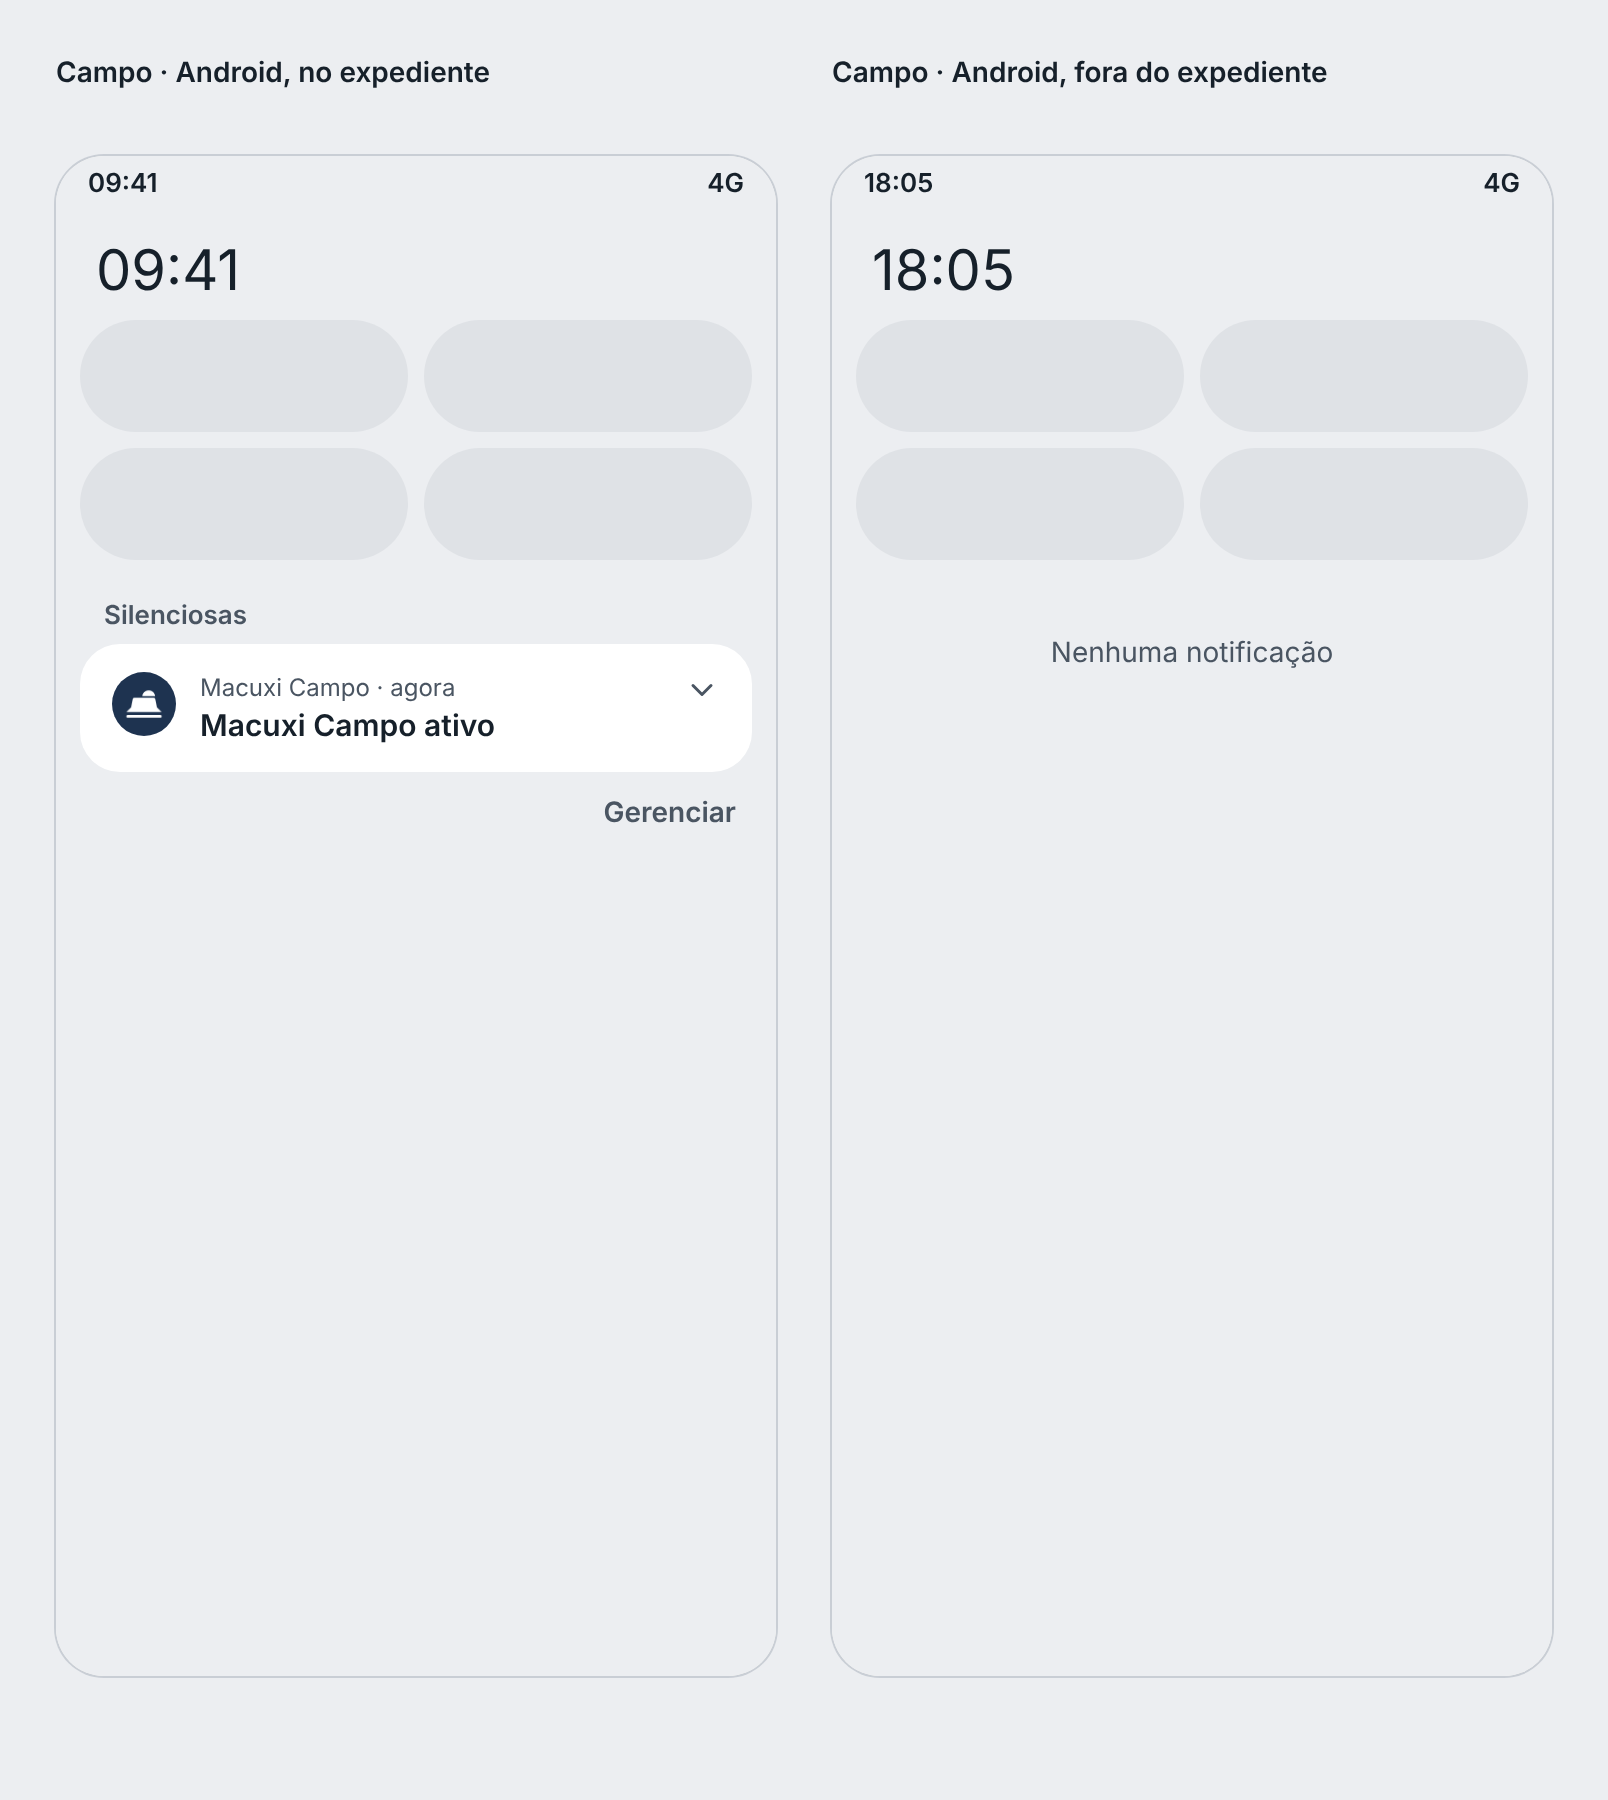
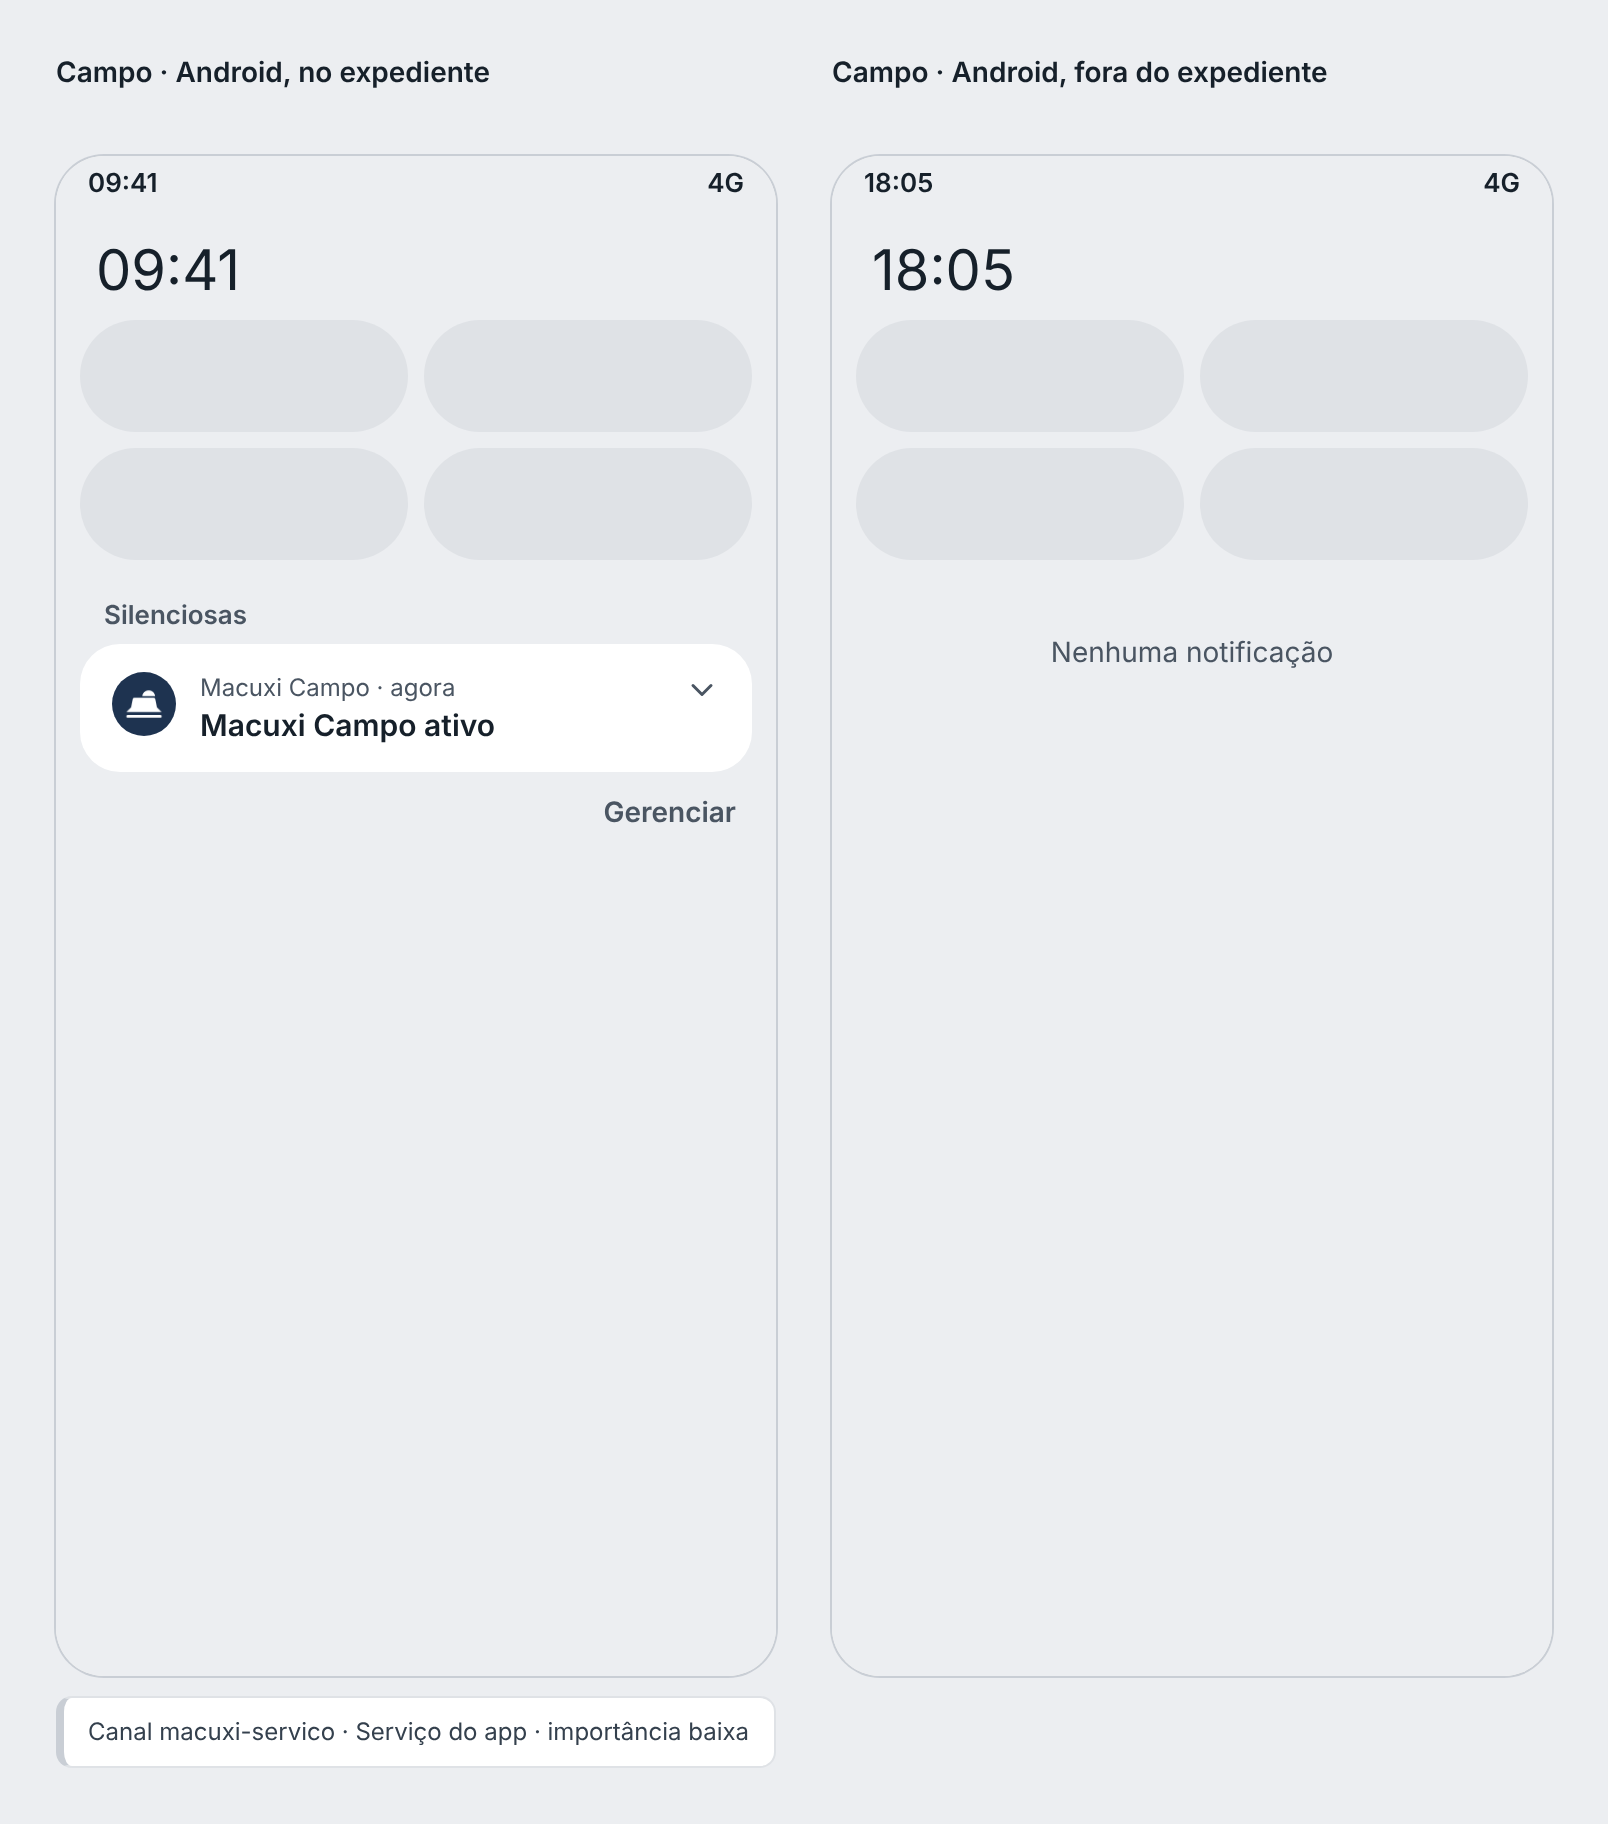
designer-ux — v1.0.15 T-0156: RD-2332 a 2336, canal macuxi-servico e Diagnóstico sem localização
Textos de distância e de dia vazio, decisão de 19/11 num lugar só, quem vê pelo desenho, canal Serviço do app; MC-1781 conferida.

Agente: designer-ux

Claude-Session: https://claude.ai/code/session_019xHEXrPzgn3fNKy4GEjQ9e

diff --git a/docs/design/tracking/02-notificacao.html b/docs/design/tracking/02-notificacao.html
@@ -64,7 +64,7 @@ main{flex:1;min-width:0;padding:24px 32px;display:flex;flex-direction:column;gap
 .vaziow{display:flex;flex-direction:column;align-items:center;gap:12px;padding:40px 24px;text-align:center;border:1px dashed #C9CED5;border-radius:16px}
 .vaziow span{font-size:15px;font-weight:600;color:#4A5562}
 </style><body><div class="fila"><div class="col"><span class="leg">Campo · Android, no expediente</span><div class="tel"><div class="and"><div class="sb"><span>09:41</span><span>4G</span></div>
-<div class="rel">09:41</div><div class="rapidos" aria-hidden="true"><i></i><i></i><i></i><i></i></div><span class="grupo">Silenciosas</span><div class="not" role="listitem"><span class="pi"><img src="../../marca/ativos/2026-11-12-v1/icone-notificacao-96.png" alt=""></span><span class="txt"><span class="ap">Macuxi Campo · agora</span><b>Macuxi Campo ativo</b></span><span class="chev"><svg width="18" height="18" viewBox="0 0 24 24" fill="none" stroke="currentColor" stroke-width="2" stroke-linecap="round" stroke-linejoin="round"><path d="M6 9l6 6 6-6"/></svg></span></div><span class="gerir">Gerenciar</span></div></div></div><div class="col"><span class="leg">Campo · Android, fora do expediente</span><div class="tel"><div class="and"><div class="sb"><span>18:05</span><span>4G</span></div>
+<div class="rel">09:41</div><div class="rapidos" aria-hidden="true"><i></i><i></i><i></i><i></i></div><span class="grupo">Silenciosas</span><div class="not" role="listitem"><span class="pi"><img src="../../marca/ativos/2026-11-12-v1/icone-notificacao-96.png" alt=""></span><span class="txt"><span class="ap">Macuxi Campo · agora</span><b>Macuxi Campo ativo</b></span><span class="chev"><svg width="18" height="18" viewBox="0 0 24 24" fill="none" stroke="currentColor" stroke-width="2" stroke-linecap="round" stroke-linejoin="round"><path d="M6 9l6 6 6-6"/></svg></span></div><span class="gerir">Gerenciar</span></div></div><div class="nota">Canal macuxi-servico · Serviço do app · importância baixa</div></div><div class="col"><span class="leg">Campo · Android, fora do expediente</span><div class="tel"><div class="and"><div class="sb"><span>18:05</span><span>4G</span></div>
 <div class="rel">18:05</div><div class="rapidos" aria-hidden="true"><i></i><i></i><i></i><i></i></div><div class="nada">Nenhuma notificação</div></div></div></div></div><script>window.addEventListener('load',()=>{const conflitos=[];
 for(const col of document.querySelectorAll('.col')){const tel=col.querySelector('.tel,.web').getBoundingClientRect();
 const sobre=[...col.querySelectorAll('.leg,.nota')].map(e=>[e.className,e.getBoundingClientRect()]);

diff --git a/docs/design/tracking/spec.md b/docs/design/tracking/spec.md
@@ -3,7 +3,6 @@
 - **Autor**: designer-ux, 19/11/2026 (Manaus). Item 5 do §11 de [`docs/desenho/tracking.md`](../../desenho/tracking.md); ADR 0061.
 - **Escopo**: o que ficou na v1.0.15 — o trajeto do dia na Ficha do Gestão e no BKO (PR #502, modulo-gestor) e a notificação fixa
   do Android no Campo (PR #501, engenheiro-apps). Esta spec descreve o código desses PRs.
-- **Decisão do dono do produto (19/11/2026, 05h46)**: o rastreamento é **interno**; o vendedor e o promotor não têm tela dele.
 - **Simulação**: `node docs/design/tracking/gerar.mjs` gera `01-mapa-equipe` e `02-notificacao` (HTML e PNG, escala 2; aparelho
   360×760 e BKO 1366×768). O gerador falha se a legenda cobrir a tela ou se algo sair dela ou ficar cortado.
 - **Marca**: cores do kit (`packages/ui/src/comum/contraste.ts`); traço e marcadores em Azul noite #1E3350, fundo do mapa Névoa
@@ -14,10 +13,10 @@
 
 | Quem | O que vê |
 |---|---|
-| Quem tem `core.trajeto.ver_equipe` (supervisor, gerente e admin), só na própria equipe | o trajeto do dia na Ficha (§2) e a página Trajeto do dia (§3) |
-| Suporte | no Diagnóstico do Perfil do Campo, a linha `Localização no expediente: <estado> · último ponto 10:12` |
+| Quem tem `core.trajeto.ver_equipe` (padrão: supervisor e gerente; o admin só com a permissão — [`docs/desenho/tracking.md`](../../desenho/tracking.md) §6 e §7), só na própria equipe | o trajeto do dia na Ficha (§2) e a página Trajeto do dia (§3) |
 | Vendedor e promotor | só a notificação fixa do Android (§4) |
 
+- **Decisão do dono do produto (19/11/2026, 05h46)**: o rastreamento é **interno**; o vendedor e o promotor não têm tela dele.
 - Sem a permissão, a seção da Ficha some e a página não entra no menu; a API recusa (403).
 - Nenhuma tela exporta pontos nem mostra coordenada.
 
@@ -72,13 +71,13 @@ Valores de `apps/mobile/src/lib/trajeto.ts` e `apps/mobile/plugins/notificacao-t
 | Texto | nenhum |
 | Ícone pequeno | `notification_icon` (o `icone-notificacao.png` do plugin do expo-notifications) |
 | Cor | círculo do ícone em `notification_icon_color`, Azul noite #1E3350; cartão sem pintar |
-| Canal | id `<appId>:macuxi-trajeto`, nome `Serviço do app`, sem descrição, importância baixa (`IMPORTANCE_LOW`): sem som, em "Silenciosas" |
+| Canal | id `<appId>:macuxi-servico`, nome `Serviço do app`, sem descrição, importância baixa (`IMPORTANCE_LOW`): sem som, em "Silenciosas" |
 | Categoria e ações | `CATEGORY_SERVICE`; sem ações |
 | Toque | abre o Campo onde ele estava |
 | Quando | aparece com o serviço ligado e some quando ele desliga (fora do expediente, feriado, ausência, logout, rastreamento desligado) |
 
 ## 5. Fora da v1.0.15
 
-- Tela própria de trajeto no Gestão, troca de dia no app, visitas e trechos sem registro no desenho, mapa com ruas.
-- Km e "Ver trajeto" no Painel da equipe.
-- Qualquer tela de rastreamento para o vendedor e o promotor (decisão de 19/11).
+- Na v1.0.16, o resto da antiga prancha 01: tela própria de trajeto no Gestão, troca de dia no app, visitas e trechos sem
+  registro no desenho, mapa com ruas, distância e "Ver trajeto" no Painel da equipe.
+- A linha `Localização no expediente` no Diagnóstico do Perfil do Campo sai (o engenheiro-apps tira do código).

diff --git a/.coord/diario/designer-ux.md b/.coord/diario/designer-ux.md
@@ -175,3 +175,4 @@
 2026-11-19 — T-0156 — #492: rastreamento interno (decisão das 05h46): saem termo, Meu trajeto, pausa, Localização no Perfil e Contestar; ficam o mapa da equipe (Gestão e BKO) e a notificação "Macuxi Campo ativo".
 2026-11-19 — T-0156 — #492: MC-1781 (cores do kit na prancha do BKO do mapa da equipe).
 2026-11-19 — T-0156 — #492: spec e pranchas do rastreamento alinhadas ao #501 e #502 (o que ficou na v1.0.15); MC-1781 e RD-2332 a 2336.
+2026-11-19 — T-0156 — #492: RD-2332 a 2336, canal macuxi-servico e Diagnóstico sem a linha de localização.
